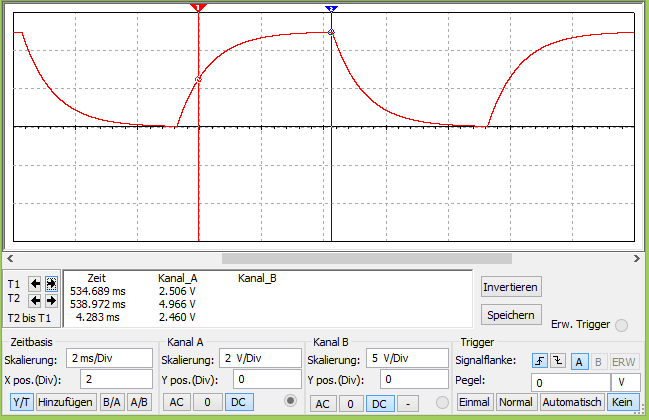
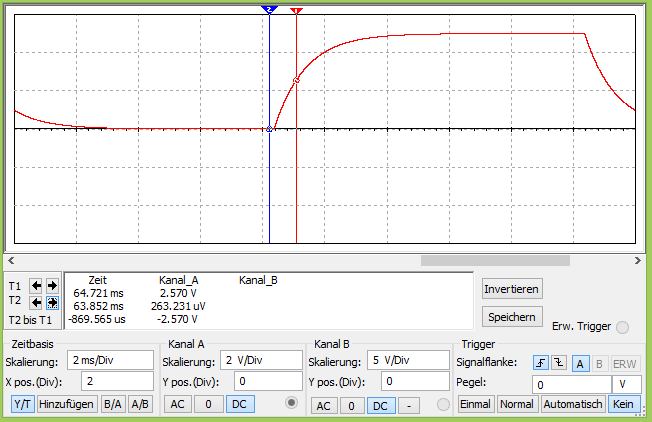
Teil 1 fertig

diff --git a/Simulation/VorlageProtokoll.tex b/Simulation/VorlageProtokoll.tex
@@ -63,6 +63,7 @@ Die Halbwertszeit $\tau$ ergibt sich aus der Gleichung:
 
 \begin{align}
 \tau = \text{R} \cdot \text{C}
+\label{eqn:tau}
 \end{align}
 
 \subsubsection{Versuchsaufbau}
@@ -82,11 +83,9 @@ R1 ist ein 1k$\Omega$ Widerstand und C1 ein 1$\mu$F Kondensator.
 %erklären, !was! wir machen, !warum! wir das machen und mit welchem ziel
 %(wichtig) präzize erklären, wie bei dem versuch vorgegangen und was gemacht wurde
 
-\subsubsection{Messergebnisse}
-%die messwerte in !übersichtlichen! tabellen angegeben
-%zu viele kleine tabellen in große tabellen überführen!
-%zu große tabellen mit dem [scale]-befehl scalieren oder (falls zu lang) in zwei kleinere tabellen aufteilen
-%(wichtig) vor !jeder! tabelle sagen, was gemessen wurde und wie die fehler gewählt wurden und ausreichend !erklären!, !warum! wir unsere fehler grade so gewählt haben
+Es wird das Fenster des Oszilloskops aufgerufen und die Simulation gestartet. Da die Kurve auf der y-Achse von 0 aus läuft kann mit einem Taster der maximal Wert bestimmt werden und mit dem zweitem Taster die Halbwertszeit.
+
+
 \subsubsection{Auswertung}
 %zuerst !alle! errechneten werte entweder in ganzen sätzen aufzählen, oder in tabellen (übersichtlicher) dargestellen, sowie auf die verwendeten formeln verweisen (die referenzierung der formel kann in der überschrift stehen)
 %kurz erwähnen (vor der tabelle), warum wir das ganze ausrechnen bzw. was wir dort ausrechnen
@@ -96,6 +95,16 @@ R1 ist ein 1k$\Omega$ Widerstand und C1 ein 1$\mu$F Kondensator.
 %bei plots darauf achten, dass die achsenbeschriftung (auch die tics) die richtige größe haben und die legende im plot nicht die messwerte verdeckt
 %kurz die aufgabenstellung abhandeln
 %2-----------------------------------------------2
+
+Aus der theoretischen Berechnung ergibt sich eine theoretische Halbwertszeit von 1ms, siehe Gleichung \ref{eqn:tau}. Gemessen wurde eine Halbwertszeit von 0,869ms, wie in Abbildung \ref{fig:2_1} zu sehen ist.
+
+\begin{figure}[H] 
+  \centering
+    \includegraphics[ scale = 0.7]{2_1.PNG}
+  	\caption[Auf- und Entladekurve des RC-Kreises]{Auf- und Entladekurve des RC-Kreises}
+  \label{fig:2_1}
+\end{figure}
+
 \subsubsection{Diskussion}
 %(immer) die gemessenen werte und die bestimmten werte über die messfehler mit literaturwerten oder untereinander vergleichen
 %in welchem fehlerintervall des messwertes liegt der literaturwert oder der vergleichswert?
@@ -107,10 +116,14 @@ R1 ist ein 1k$\Omega$ Widerstand und C1 ein 1$\mu$F Kondensator.
 %falls tabellen mit den messwerten zu lang werden, kann die section mit den messwerten auch hinter der diskussion angefügt bzw. eine section mit dem anhang eingefügt werden.
 %1-----------------------------------------------1
 
+Bei der Bestimmung der Halbwertszeit mit Multisim ergab sich eine etwas geringere Halbwertszeit als theoretisch vorhergesagt.
 
 \subsection{Resonanzkurve eines RCL-Kreises}
 %kurz das ziel dieses versuchsteiles ansprechen, damit keine zwei überschriften direkt übereinander stehen!
 %bei schwierigeren versuchen kann auch der theoretische hintergrund erläutert werden. (mit formeln, herleitungen und erklärungen)
+
+In diesem Versuchsteil soll ein RCL-Kreis auf seine Resonanzfrequenz untersucht werden. Für die Untersuchung mit Multisim wir ein Bode-Plot verwendet.
+
 \subsubsection{Verwendete Geräte}
 %(immer) eine skizze oder ein foto einfügen, die geräte/materialien !nummerieren! und z.b. eine legende dazu schreiben, besser wäre es das ganze in einem Fließtext gut zu beschreiben.
 %falls am anfang des versuches nicht klar ist, was alles verwendet wird, wenn möglich erst am ende ein großes foto von den verwendeten materialien machen!\\
@@ -122,6 +135,14 @@ Es werden ein Funktionsgenerator, ein Widerstand, ein Kondensator und eine Spule
 %mit knappen erklärungen die !verwendeten! formeln, sowie die zugehörige fehlerrechnung einfügen
 %2-----------------------------------------------2
 %ab hier kann nochmal in einzelne versuchsteile unterteilt werden
+
+Theoretisch ergibt sich die Resonanzfrequenz eines RCL-Kreises aus der Gleichung:
+
+\begin{align}
+\text{f}_0 = \frac{1}{2 \pi \sqrt{\text{RL}}}
+\label{eqn:f0}
+\end{align}
+
 \subsubsection{Versuchsaufbau}
 %skizze zum versuchsaufbau (oder foto) einfügen,   es muss erklärt werden wie das ganze funktioniert und welche speziellen einstellungen verwendet wurden (z.b. welche knöpfe an den geräten für die messung verdreht wurden)
 
@@ -139,11 +160,9 @@ R1 ist ein 2$\Omega$ Widerstand, C1 ein 1$\mu$F Kondensator und L1 eine 1mH Spul
 %erklären, !was! wir machen, !warum! wir das machen und mit welchem ziel
 %(wichtig) präzize erklären, wie bei dem versuch vorgegangen und was gemacht wurde
 
-\subsubsection{Messergebnisse}
-%die messwerte in !übersichtlichen! tabellen angegeben
-%zu viele kleine tabellen in große tabellen überführen!
-%zu große tabellen mit dem [scale]-befehl scalieren oder (falls zu lang) in zwei kleinere tabellen aufteilen
-%(wichtig) vor !jeder! tabelle sagen, was gemessen wurde und wie die fehler gewählt wurden und ausreichend !erklären!, !warum! wir unsere fehler grade so gewählt haben
+Es wird das Fenster des Bodeplotters aufgerufen und der Frequenzbereich so wie der Dezibel-Bereich eingestellt. Dann wird die Simulation gestartet und die Resonanzfrequenz mit dem Taster bestimmt.
+
+
 \subsubsection{Auswertung}
 %zuerst !alle! errechneten werte entweder in ganzen sätzen aufzählen, oder in tabellen (übersichtlicher) dargestellen, sowie auf die verwendeten formeln verweisen (die referenzierung der formel kann in der überschrift stehen)
 %kurz erwähnen (vor der tabelle), warum wir das ganze ausrechnen bzw. was wir dort ausrechnen
@@ -153,6 +172,17 @@ R1 ist ein 2$\Omega$ Widerstand, C1 ein 1$\mu$F Kondensator und L1 eine 1mH Spul
 %bei plots darauf achten, dass die achsenbeschriftung (auch die tics) die richtige größe haben und die legende im plot nicht die messwerte verdeckt
 %kurz die aufgabenstellung abhandeln
 %2-----------------------------------------------2
+
+Aus Gleichung \ref{eqn:f0} ergibt sich eine erwartete Resonanzfrequenz von \unit[5,033]{kHz}, gemessen wurde eine Resonanzfrequenz von \unit[5,011]{kHz}, siehe Abbildung \ref{fig:2_2}.
+
+\begin{figure}[H] 
+  \centering
+    \includegraphics[ scale = 0.7]{2_2_resonanz.PNG}
+  	\caption[Bodeplot des RCL-Kreises]{Bodeplot des RCL-Kreises}
+  \label{fig:2_2}
+\end{figure}
+
+
 \subsubsection{Diskussion}
 %(immer) die gemessenen werte und die bestimmten werte über die messfehler mit literaturwerten oder untereinander vergleichen
 %in welchem fehlerintervall des messwertes liegt der literaturwert oder der vergleichswert?
@@ -164,23 +194,21 @@ R1 ist ein 2$\Omega$ Widerstand, C1 ein 1$\mu$F Kondensator und L1 eine 1mH Spul
 %falls tabellen mit den messwerten zu lang werden, kann die section mit den messwerten auch hinter der diskussion angefügt bzw. eine section mit dem anhang eingefügt werden.
 %1-----------------------------------------------1
 
-
+Die mit Multisim bestimmte Resonanzfrequenz liegt sehr nah bei der erwarteten Resonanzfrequenz, was zu erwarten war.
 
 
 \subsection{Rechtecksignal am RCL-Kreises}
 %kurz das ziel dieses versuchsteiles ansprechen, damit keine zwei überschriften direkt übereinander stehen!
 %bei schwierigeren versuchen kann auch der theoretische hintergrund erläutert werden. (mit formeln, herleitungen und erklärungen)
+
+In diesem Versuchsteil soll der Effekt des Widerstandes R im RCL-Kreis untersucht werden.
+
 \subsubsection{Verwendete Geräte}
 %(immer) eine skizze oder ein foto einfügen, die geräte/materialien !nummerieren! und z.b. eine legende dazu schreiben, besser wäre es das ganze in einem Fließtext gut zu beschreiben.
 %falls am anfang des versuches nicht klar ist, was alles verwendet wird, wenn möglich erst am ende ein großes foto von den verwendeten materialien machen!\\
 
 Es werden ein Funktionsgenerator, ein Widerstand, ein Kondensator, eine Spule und ein Oszilloskop verwendet.
 
-\subsubsection{Verwendete Formeln}
-%eine legende kann angefertigt werden, die selbstverständlichen buchstaben müssen nicht extra erklärt werden
-%mit knappen erklärungen die !verwendeten! formeln, sowie die zugehörige fehlerrechnung einfügen
-%2-----------------------------------------------2
-%ab hier kann nochmal in einzelne versuchsteile unterteilt werden
 \subsubsection{Versuchsaufbau}
 %skizze zum versuchsaufbau (oder foto) einfügen,   es muss erklärt werden wie das ganze funktioniert und welche speziellen einstellungen verwendet wurden (z.b. welche knöpfe an den geräten für die messung verdreht wurden)
 
@@ -198,11 +226,9 @@ R1 ist ein 50$\Omega$ Widerstand, C1 ein 100nF Kondensator und L1 eine 1,5mH Spu
 %erklären, !was! wir machen, !warum! wir das machen und mit welchem ziel
 %(wichtig) präzize erklären, wie bei dem versuch vorgegangen und was gemacht wurde
 
-\subsubsection{Messergebnisse}
-%die messwerte in !übersichtlichen! tabellen angegeben
-%zu viele kleine tabellen in große tabellen überführen!
-%zu große tabellen mit dem [scale]-befehl scalieren oder (falls zu lang) in zwei kleinere tabellen aufteilen
-%(wichtig) vor !jeder! tabelle sagen, was gemessen wurde und wie die fehler gewählt wurden und ausreichend !erklären!, !warum! wir unsere fehler grade so gewählt haben
+Zu erst sollte der Effekt des Widerstandes auf die Überschwinger der Rechteckspannung untersucht werden, dafür wurde der Widerstand eingestellt, das Fenster des Oszilloskops aufgerufen und die Simulation gestartet. Im zweitem Teil sollte untersucht werden, wie sich R auf die Breite der Resonanzkurve auswirkt. Dafür wurde R eingestellt, das Fenster des Bodeplotters aufgerufen und dann die Simulation gestartet.
+
+
 \subsubsection{Auswertung}
 %zuerst !alle! errechneten werte entweder in ganzen sätzen aufzählen, oder in tabellen (übersichtlicher) dargestellen, sowie auf die verwendeten formeln verweisen (die referenzierung der formel kann in der überschrift stehen)
 %kurz erwähnen (vor der tabelle), warum wir das ganze ausrechnen bzw. was wir dort ausrechnen
@@ -212,6 +238,79 @@ R1 ist ein 50$\Omega$ Widerstand, C1 ein 100nF Kondensator und L1 eine 1,5mH Spu
 %bei plots darauf achten, dass die achsenbeschriftung (auch die tics) die richtige größe haben und die legende im plot nicht die messwerte verdeckt
 %kurz die aufgabenstellung abhandeln
 %2-----------------------------------------------2
+
+Bei der Untersuchung der Wirkung von R auf die Überschwinger der Rechteckspannung wurden drei Aufnahmen gemacht, bei \unit[50]{$\Omega$}, \unit[150]{$\Omega$} und \unit[300]{$\Omega$}. Dabei ergaben sich die Kurven in Abbildung \ref{fig:2_3_1}. Es ist deutlich zu sehen, dass ab \unit[150]{$\Omega$} die Überschwinger fast raus geblockt sind.
+
+
+\begin{figure}[H]
+        \centering
+        \begin{subfigure}[b]{0.28\textwidth}
+                \includegraphics[width=\textwidth , scale = 0.4]{2_3_widerstand_50Ohm.PNG}
+                \caption[Aufnahme der Kurve bei 50 $\Omega$]{Aufnahme der Kurve bei 50 $\Omega$}
+                \label{fig:2_3_50}
+        \end{subfigure}%
+       % ~ %add desired spacing between images, e. g. ~, \quad, \qquad, \hfill etc.
+          %(or a blank line to force the subfigure onto a new line)
+        \hfill
+        \begin{subfigure}[b]{0.28\textwidth}
+                \includegraphics[width=\textwidth , scale = 0.4]{2_3_widerstand_150Ohm.PNG}
+                \caption[Aufnahme der Kurve bei 150 $\Omega$]{Aufnahme der Kurve bei 150 $\Omega$}
+                \label{fig:23_150}
+        \end{subfigure}
+       % ~ %add desired spacing between images, e. g. ~, \quad, \qquad, \hfill etc.
+          %(or a blank line to force the subfigure onto a new line)
+        \hfill
+        \begin{subfigure}[b]{0.28\textwidth}
+                \includegraphics[width=\textwidth , scale = 0.4]{2_3_widerstand_300Ohm.PNG}
+                \caption[Aufnahme der Kurve bei 300 $\Omega$]{Aufnahme der Kurve bei 300 $\Omega$}
+  				\label{fig:2_3_300}
+        \end{subfigure}
+        \caption{Kurven  für 50$\Omega$, 150$\Omega$ und 300$\Omega$}
+        \label{fig:2_3_1}
+\end{figure}
+
+
+Im zweitem Teil sollte die Auswirkung von R auf die Breite der Resonanzkurve untersucht werden. Dabei ergaben sich die Kurven in Abbildung \ref{fig:2_3_2_1} und Abbildung \ref{fig:2_3_2_2}. Es ist deutlich zu sehen, das bei größerem Widerstand R die Resonanzkurve breiter wird.
+
+\begin{figure}[H]
+        \centering
+        \begin{subfigure}[b]{0.48\textwidth}
+                \includegraphics[width=\textwidth , scale = 0.4]{2_3_bode_betrag_25Ohm.PNG}
+                \caption[Messung des Frequenzgangs]{Messung des Frequenzgangs}
+ 				 \label{fig:2_3_25_betrag}
+        \end{subfigure}%
+        %~ %add desired spacing between images, e. g. ~, \quad, \qquad, \hfill etc.
+          %(or a blank line to force the subfigure onto a new line)
+        \hfill
+        \begin{subfigure}[b]{0.48\textwidth}
+                \includegraphics[width=\textwidth , scale = 0.4]{2_3_bode_phase_25Ohm.PNG}
+                \caption[Messung des Phasengangs]{Messung des Phasengangs}
+  				\label{fig:2_3_25_phase}
+        \end{subfigure}
+        \caption{Messung des Frequenz- und des Phasengangs bei einem Widerstand von 25$\Omega$}
+        \label{fig:2_3_2_1}
+\end{figure}
+
+
+\begin{figure}[H]
+        \centering
+        \begin{subfigure}[b]{0.48\textwidth}
+                \includegraphics[width=\textwidth , scale = 0.4]{2_3_bode_betrag_50Ohm.PNG}
+                \caption[Messung des Frequenzgangs]{Messung des Frequenzgangs}
+ 				 \label{fig:2_3_25_betrag}
+        \end{subfigure}%
+        %~ %add desired spacing between images, e. g. ~, \quad, \qquad, \hfill etc.
+          %(or a blank line to force the subfigure onto a new line)
+        \hfill
+        \begin{subfigure}[b]{0.48\textwidth}
+                \includegraphics[width=\textwidth , scale = 0.4]{2_3_bode_phase_50Ohm.PNG}
+                \caption[Messung des Phasengangs]{Messung des Phasengangs}
+  				\label{fig:2_3_25_phase}
+        \end{subfigure}
+        \caption{Messung des Frequenz- und des Phasengangs bei einem Widerstand von 50$\Omega$}
+        \label{fig:2_3_2_2}
+\end{figure}
+
 \subsubsection{Diskussion}
 %(immer) die gemessenen werte und die bestimmten werte über die messfehler mit literaturwerten oder untereinander vergleichen
 %in welchem fehlerintervall des messwertes liegt der literaturwert oder der vergleichswert?
@@ -223,6 +322,7 @@ R1 ist ein 50$\Omega$ Widerstand, C1 ein 100nF Kondensator und L1 eine 1,5mH Spu
 %falls tabellen mit den messwerten zu lang werden, kann die section mit den messwerten auch hinter der diskussion angefügt bzw. eine section mit dem anhang eingefügt werden.
 %1-----------------------------------------------1
 
+Wie erwartet, wurden bei einem größerem Widerstand R die Überschwinger des Rechtecksignals verkleinert, jedoch kommt es bei einem zu hohem Widerstand zu einer Dämpfung des Signals. Bei der Resonanzfrequenz für ein größerer Widerstand R zu einen breiteren Resonanzkurve, was erwartet wurde.
 
 \section{Simulation mit diskreten aktiven Bauelementen}
 
